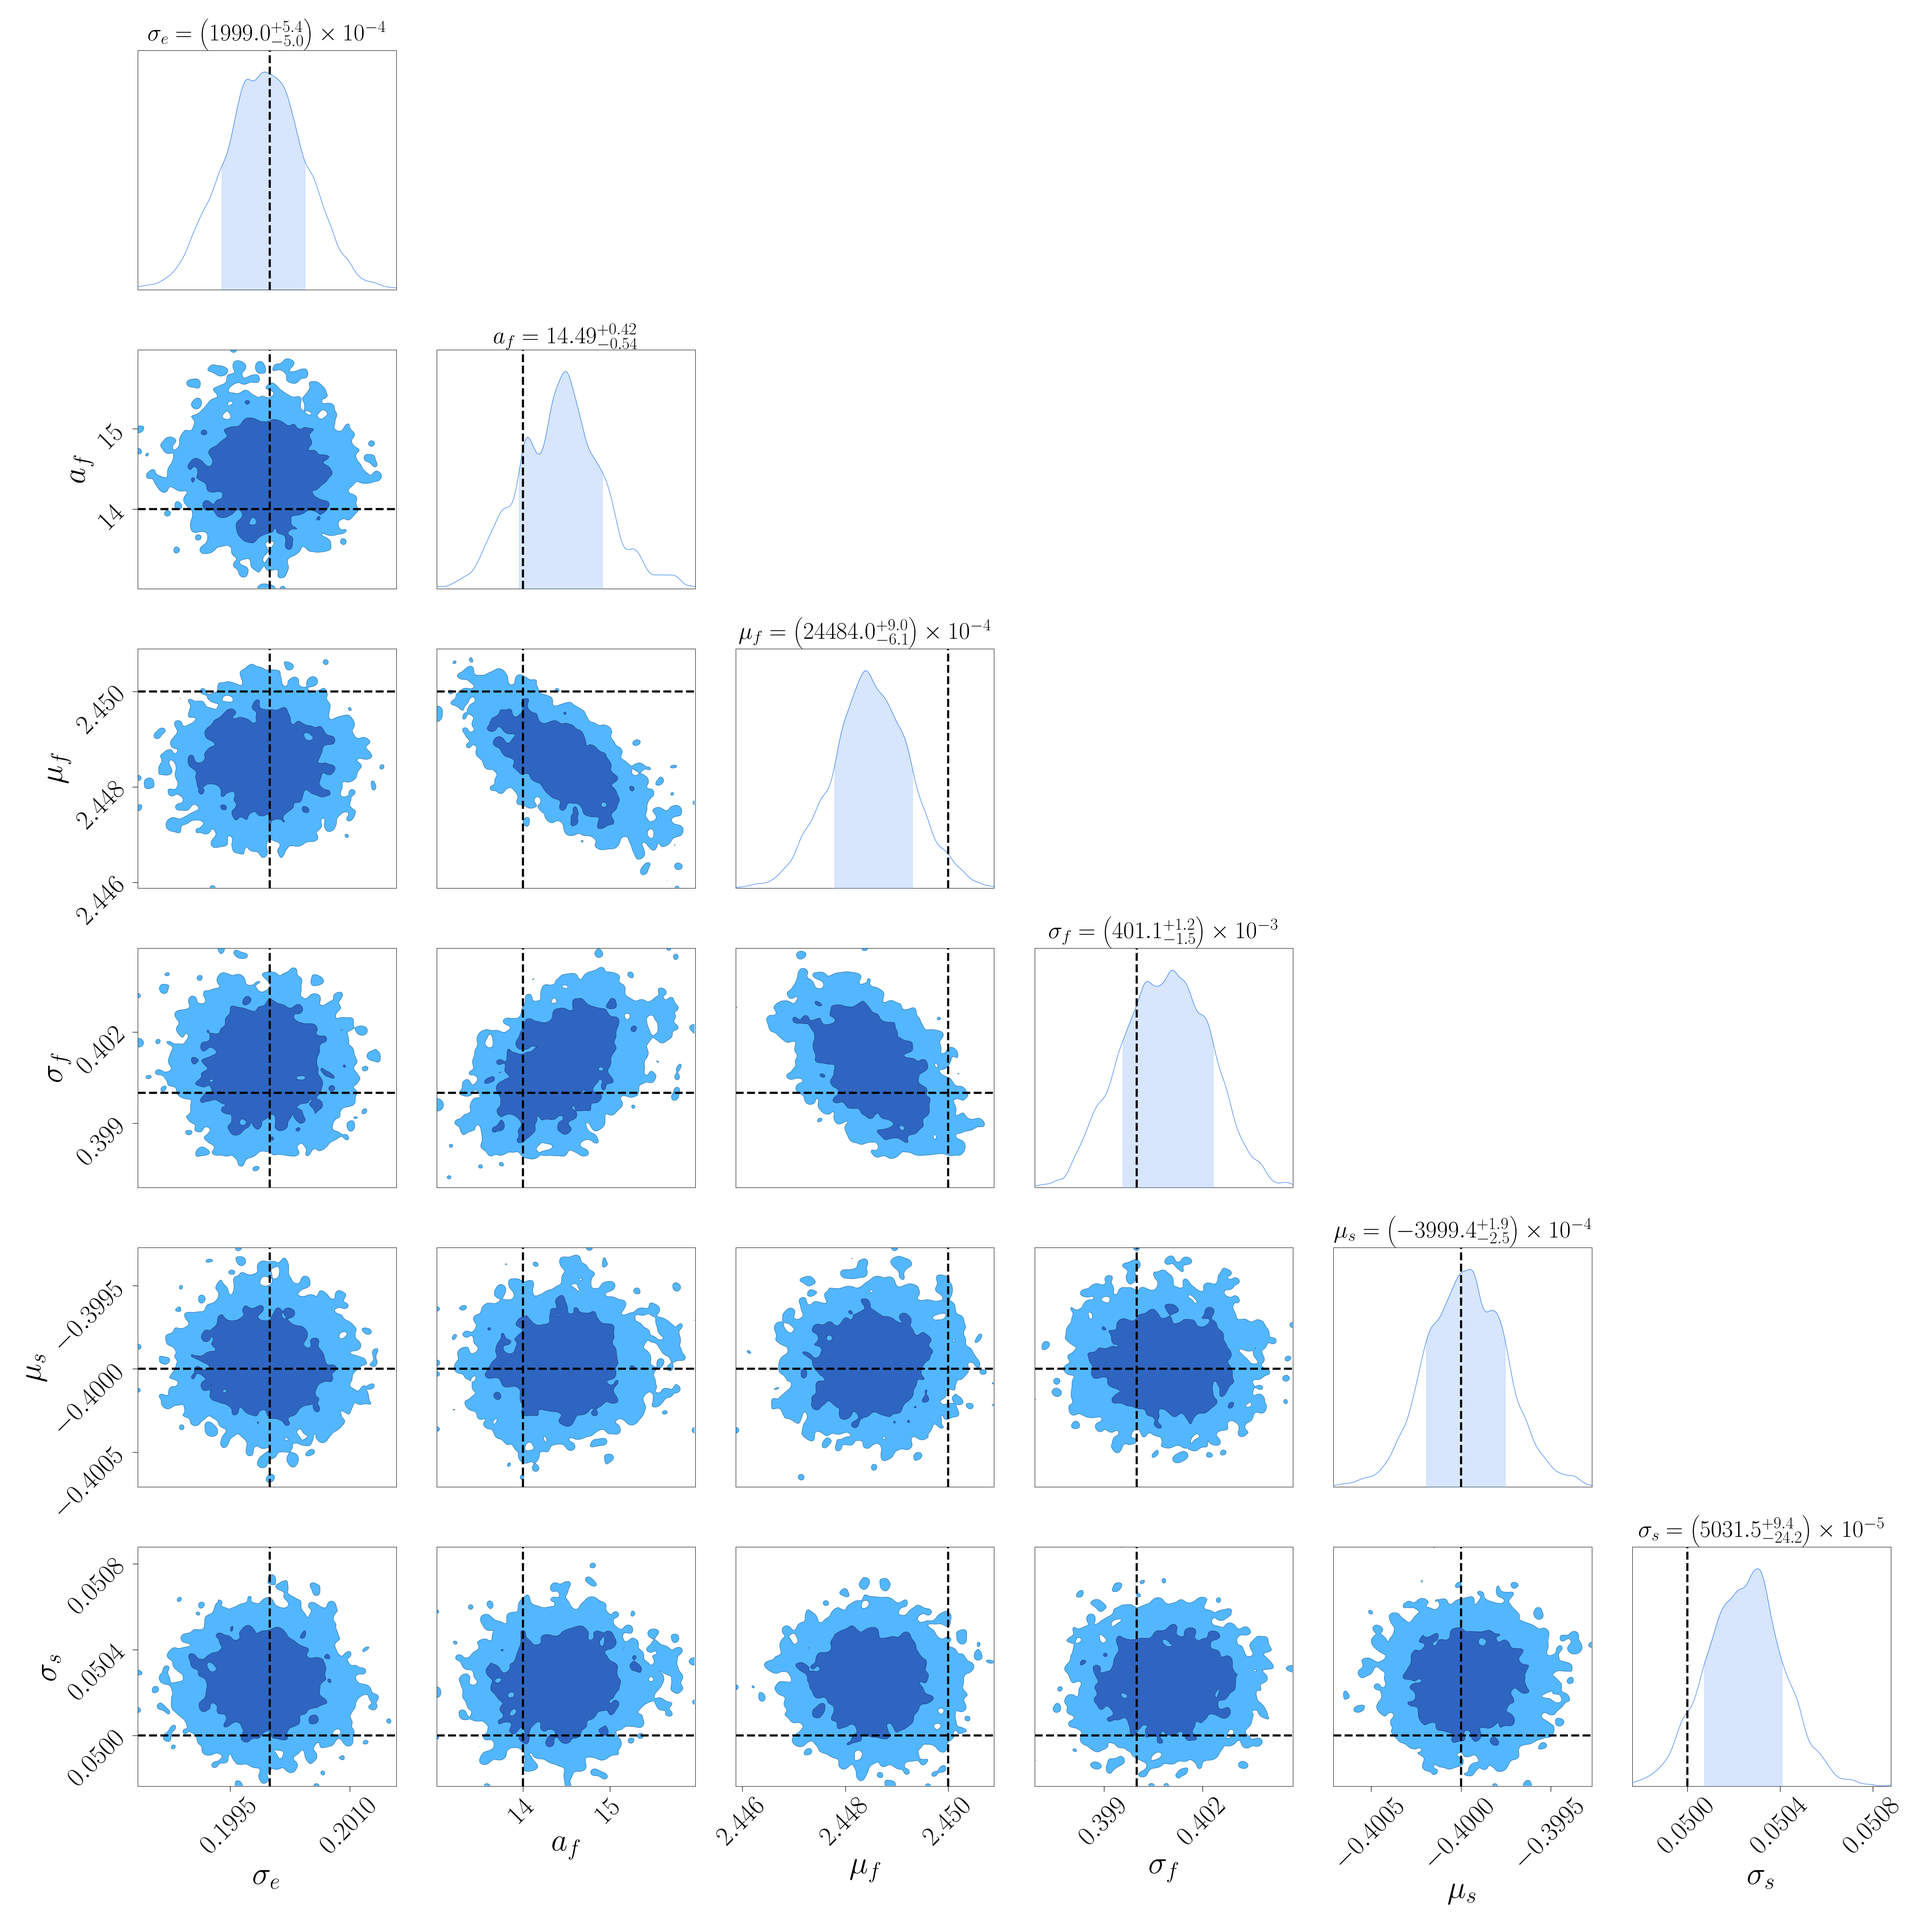
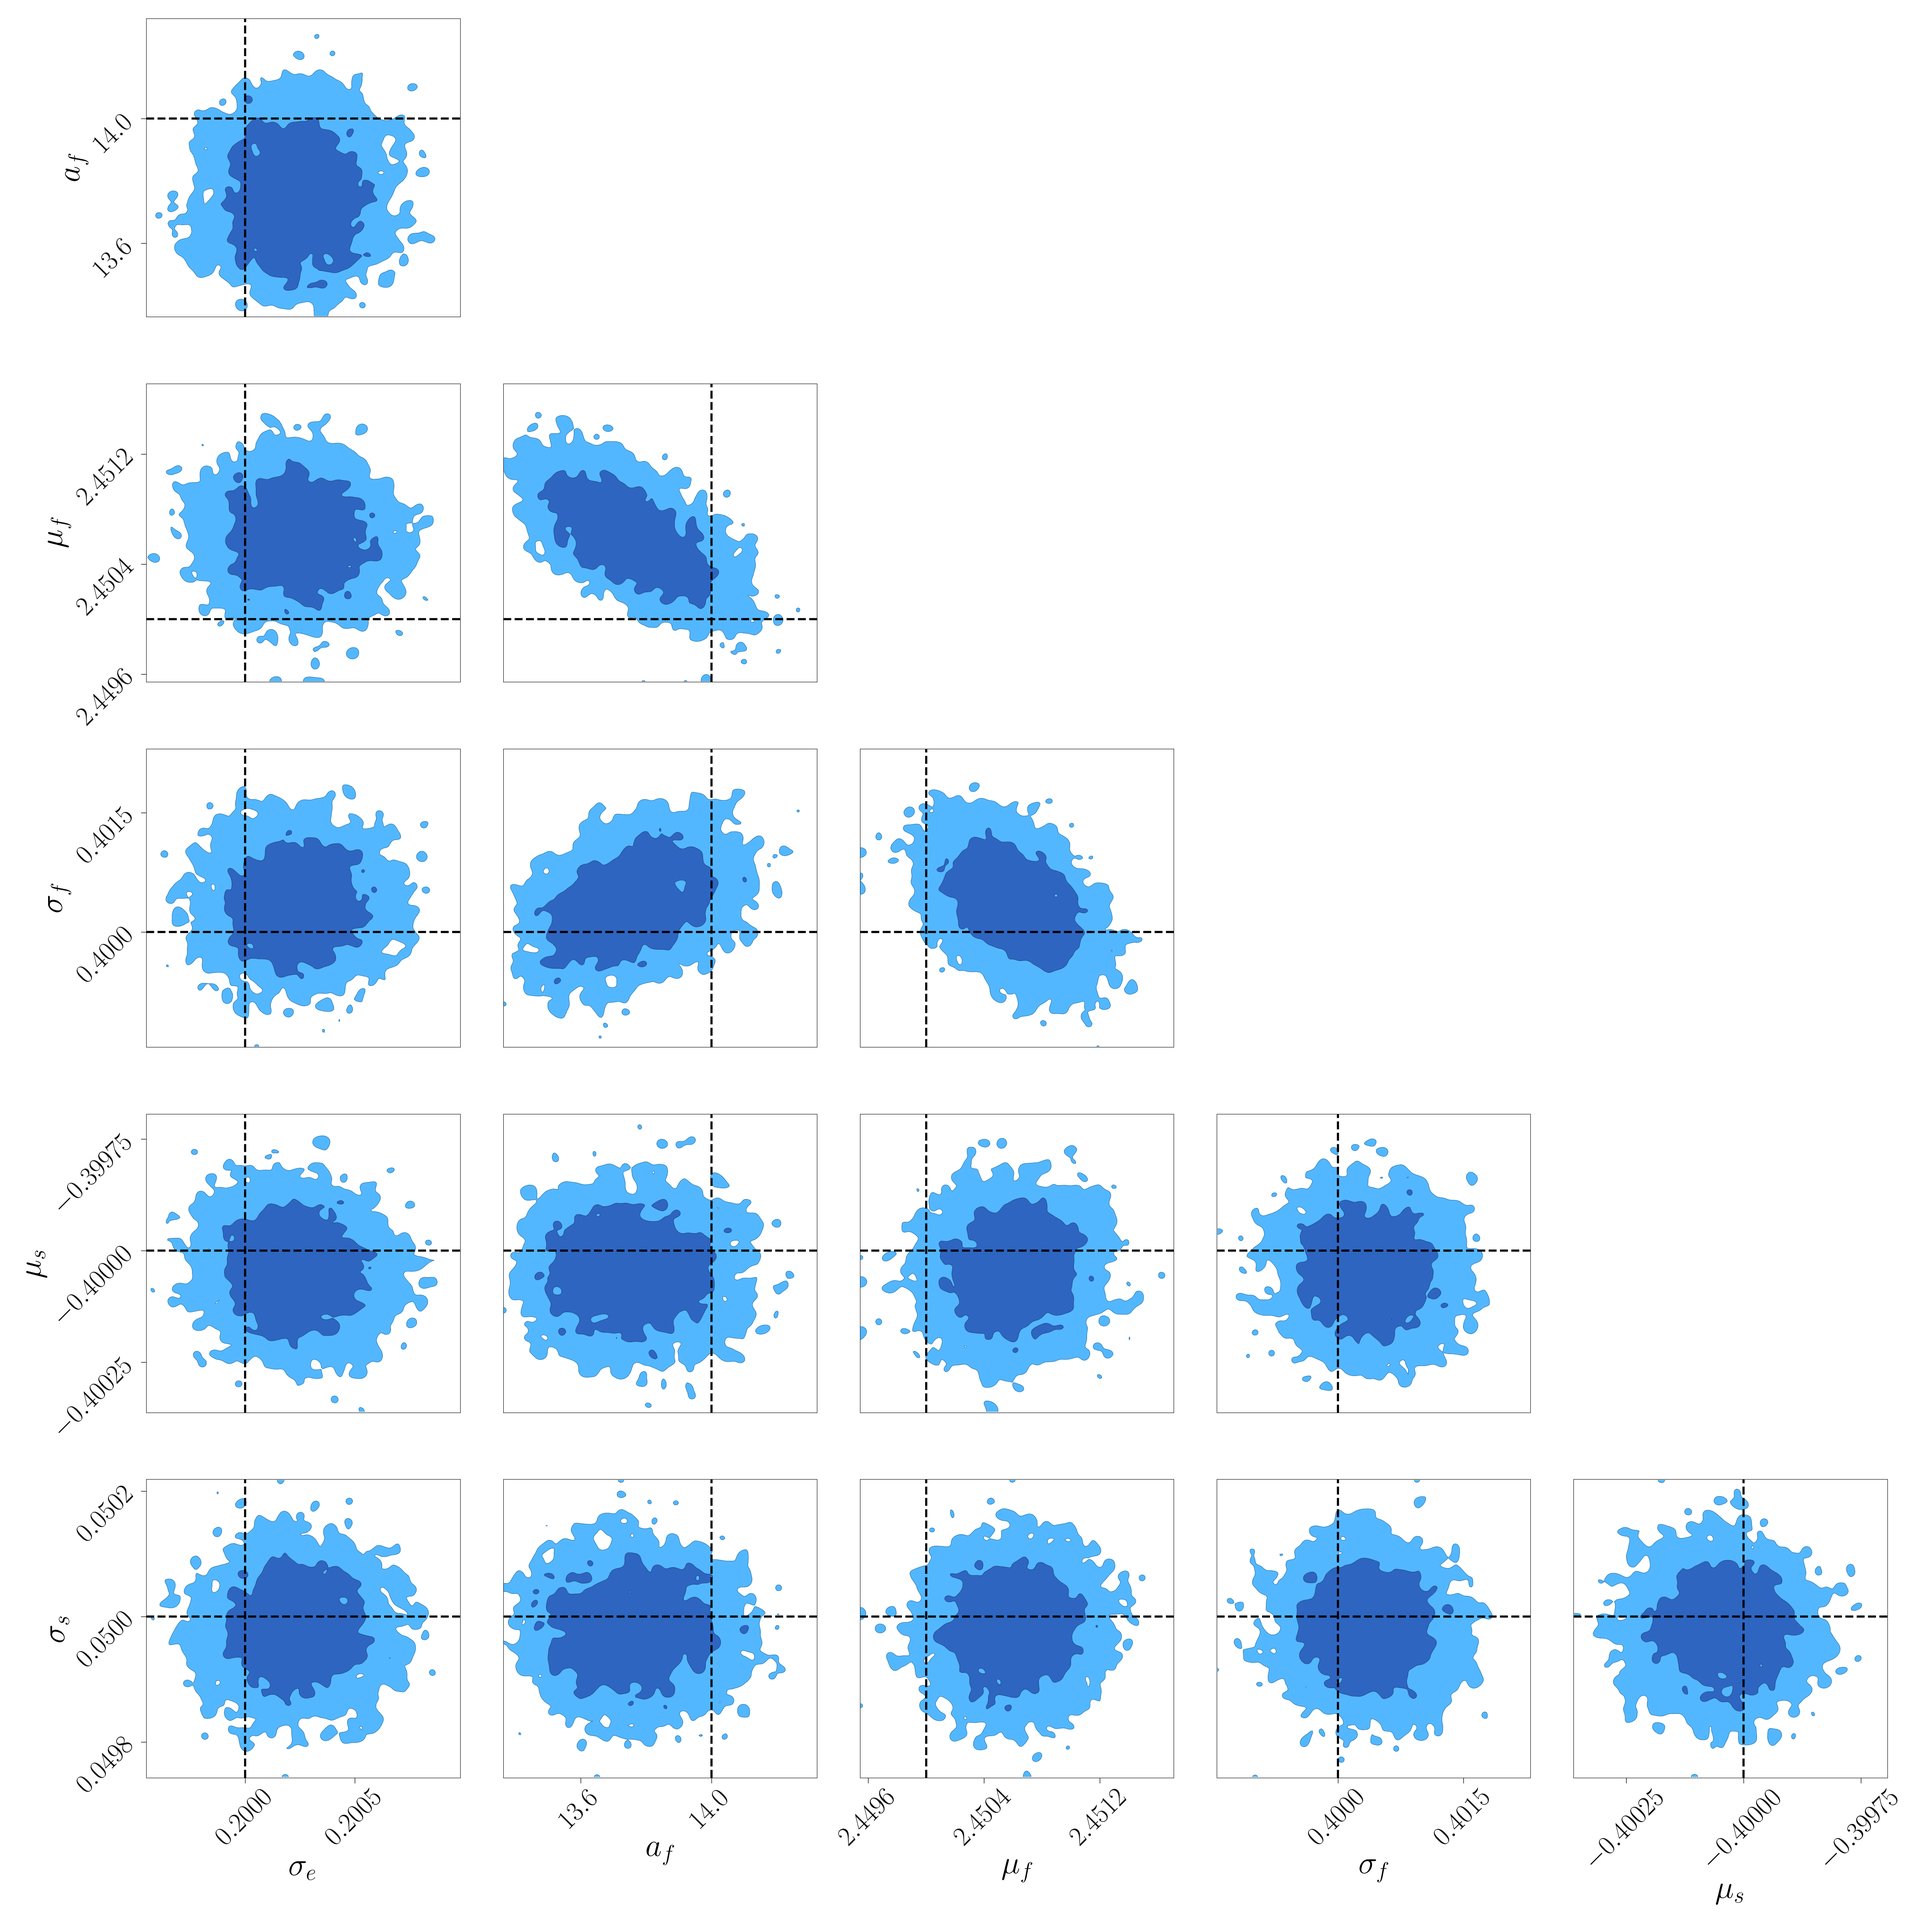
new results

diff --git a/scripts/get_paper_figures.py b/scripts/get_paper_figures.py
@@ -33,18 +33,18 @@ CHAIN_DIR = DATA_DIR / "cache_chains"
 INPUT_PATHS = {
     "timing_results": CHAIN_DIR / "exp23_43" / "timing_results_43.npz",
     "timing_conv": CHAIN_DIR / "exp23_43" / "convergence_results_43.npz",
-    "exp70_sp": CHAIN_DIR / "exp70_44" / "g_samples_442_plus.npy",
-    "exp70_sm": CHAIN_DIR / "exp70_44" / "g_samples_442_minus.npy",
-    "exp70_errs": CHAIN_DIR / "exp70_44" / "g_samples_449_errs.npz",
-    "exp71_sp": CHAIN_DIR / "exp71_44" / "shear_samples_442_plus.npz",
-    "exp71_sm": CHAIN_DIR / "exp71_44" / "shear_samples_442_minus.npz",
-    "exp71_errs": CHAIN_DIR / "exp71_44" / "g_samples_449_errs.npz",
-    "exp72_sp": CHAIN_DIR / "exp72_45" / "g_samples_452_plus.npy",
-    "exp72_sm": CHAIN_DIR / "exp72_45" / "g_samples_452_minus.npy",
-    "exp72_errs": CHAIN_DIR / "exp72_45" / "g_samples_454_errs.npz",
-    "exp73_sp": CHAIN_DIR / "exp73_45" / "shear_samples_452_plus.npz",
-    "exp73_sm": CHAIN_DIR / "exp73_45" / "shear_samples_452_minus.npz",
-    "exp73_errs": CHAIN_DIR / "exp73_45" / "tmp2" / "g_samples_454_errs.npz",
+    "exp70_sp": CHAIN_DIR / "exp70_51" / "g_samples_512_plus.npy",
+    "exp70_sm": CHAIN_DIR / "exp70_51" / "g_samples_512_minus.npy",
+    "exp70_errs": CHAIN_DIR / "exp70_51" / "g_samples_514_errs.npz",
+    "exp71_sp": CHAIN_DIR / "exp71_51" / "shear_samples_512_plus.npz",
+    "exp71_sm": CHAIN_DIR / "exp71_51" / "shear_samples_512_minus.npz",
+    "exp71_errs": CHAIN_DIR / "exp71_51" / "g_samples_514_errs.npz",
+    "exp72_sp": CHAIN_DIR / "exp72_51" / "g_samples_512_plus.npy",
+    "exp72_sm": CHAIN_DIR / "exp72_51" / "g_samples_512_minus.npy",
+    "exp72_errs": CHAIN_DIR / "exp72_51" / "g_samples_514_errs.npz",
+    "exp73_sp": CHAIN_DIR / "exp73_51" / "shear_samples_512_plus.npz",
+    "exp73_sm": CHAIN_DIR / "exp73_51" / "shear_samples_512_minus.npz",
+    "exp73_errs": CHAIN_DIR / "exp73_51" / "g_samples_514_errs_514.npz",
 }
 
 
@@ -359,7 +359,7 @@ def make_contour_hyper_figure(fpath: str | Path):
     c.set_plot_config(
         PlotConfig(
             usetex=True,
-            plot_hists=True,
+            plot_hists=False,
             labels={
                 "sigma_e": r"$\sigma_{e}$",
                 "a_logflux": r"$a_{f}$",
@@ -369,7 +369,7 @@ def make_contour_hyper_figure(fpath: str | Path):
                 "sigma_loghlr": r"$\sigma_{s}$",
             },
             label_font_size=60,
-            summarise=True,
+            summarise=False,
             summary_font_size=45,
             tick_font_size=50,
             diagonal_tick_labels=True,
@@ -457,21 +457,21 @@ def get_bias_table(fpath: str | Path):
     # in format for each m, c: mean +- std
     # use f-strings
     table = r"""
-\begin{table}[h]
+\begin{table*}
     \centering
-    \begin{tabular}{|c|c|c|c|c|}
+    \begin{tabular}{|c|c|c|c|c|c|}
         \hline
-        \textbf{Experiment} & \textbf{Multiplicative Bias $m$} & \textbf{Additive Bias $c$} \\
+        \textbf{Experiment} & \textbf{Properties Used} & \textbf{Prior Known?} & \textbf{Multiplicative Bias $m / 10^{-3}$} & \textbf{Additive Bias $c / 10^{-3}$} \\
         \hline
-        1 & $%.3g \pm %.3g$ & $%.3g \pm %.3g$ \\
-        2 & $%.3g \pm %.3g$ & $%.3g \pm %.3g$ \\
-        3 & $%.3g \pm %.3g$ & $%.3g \pm %.3g$ \\
-        4 & $%.3g \pm %.3g$ & $%.3g \pm %.3g$ \\
+        \texttt{shapes-fixed} & Ellipticities & Yes & $%.3g \pm %.3g$ & $%.3g \pm %.3f$ \\
+        \texttt{shapes-free} & Ellipticities & No & $%.3g \pm %.3g$ & $%.3g \pm %.3f$ \\
+        \texttt{all-fixed} & All & Yes & $%.3g \pm %.3g$ & $%.3g \pm %.3f$ \\
+        \texttt{all-free} & All & No & $%.3g \pm %.3g$ & $%.3g \pm %.3f$ \\
         \hline
     \end{tabular}
-    \caption{Multiplicative and additive bias for each experiment.}
+    \caption{\textbf{Multiplicative and additive bias for different settings.}}
     \label{tab:bias}
-\end{table}
+\end{table*}
     """ % (
         m1_mean / 1e-3,
         3 * m1_std / 1e-3,
@@ -497,9 +497,9 @@ def get_bias_table(fpath: str | Path):
 
 def main(overwrite: bool = False):
     # make_distribution_figure(OUT_PATHS["galaxy_distributions"], overwrite=overwrite)
-    make_timing_figure(OUT_PATHS["timing"], OUT_PATHS["timing2"])
+    # make_timing_figure(OUT_PATHS["timing"], OUT_PATHS["timing2"])
     # make_contour_shear_figure1(OUT_PATHS["contour_shear"])
-    # make_contour_hyper_figure(OUT_PATHS["contour_hyper"])
+    make_contour_hyper_figure(OUT_PATHS["contour_hyper"])
     # get_bias_table(OUT_PATHS["bias"])
 
 
